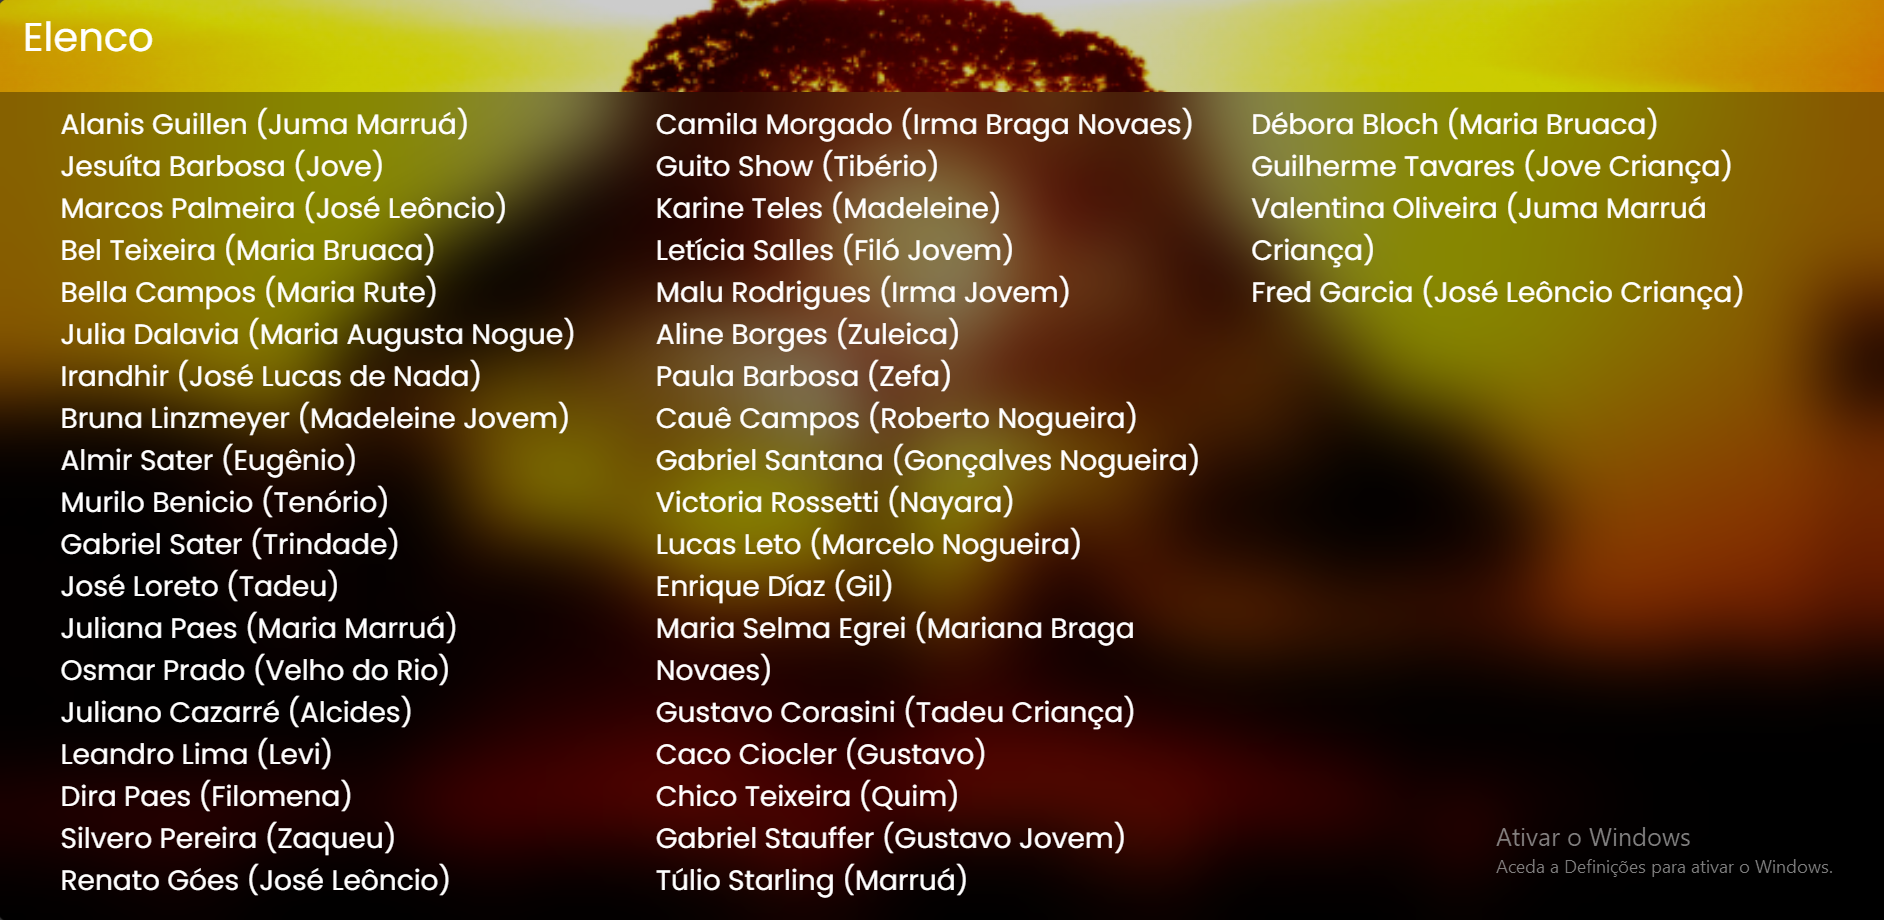
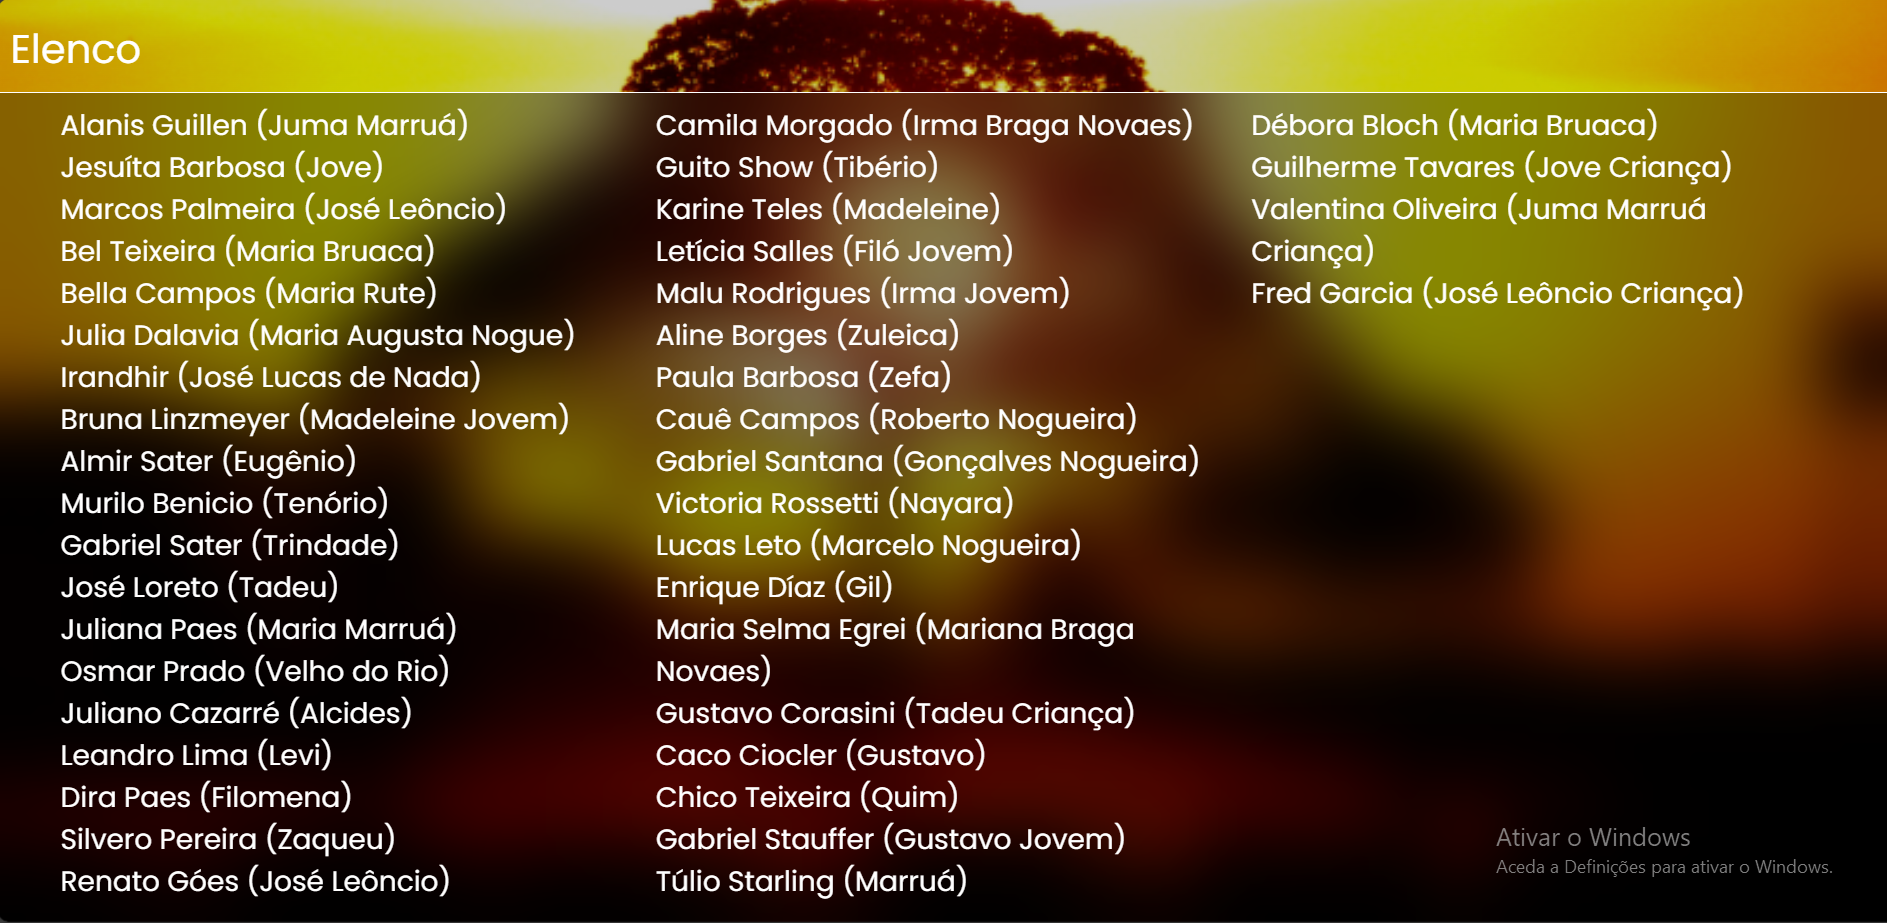
novela

diff --git a/style.css b/style.css
@@ -118,7 +118,7 @@ body{
 /*---Elenco---*/
 .elenco{
     width: 100%;
-    padding: 20px;
+    padding: 10px;
     color: white;
 }
 
@@ -138,6 +138,7 @@ body{
     gap: 1rem;
     background-color: rgba(0, 0, 0, 0.338);
     backdrop-filter: blur(30px);
+    border-top: 1px solid white;
 }
 
 .card{
